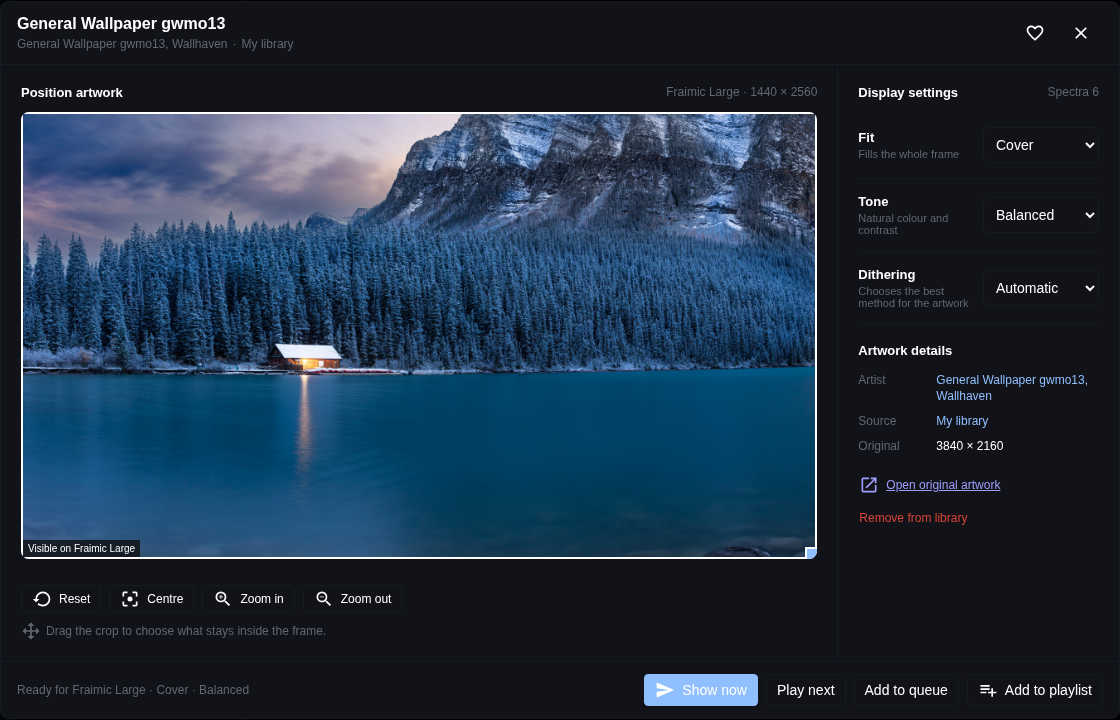
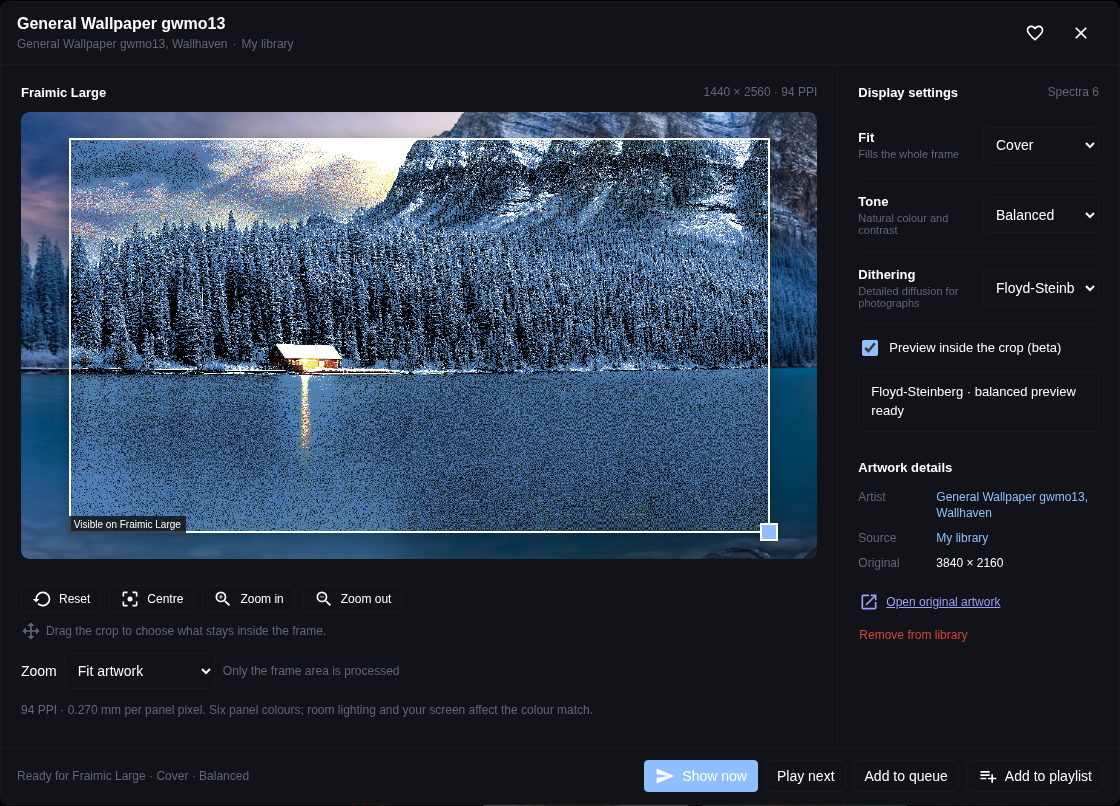
Refresh README and screenshots for Fraimic 2.1

diff --git a/README.md b/README.md
@@ -13,13 +13,17 @@ display and delivers them over your local network or through your Fraimic accoun
 - **Playlists and a queue:** create named playlists, assign them to frames, and
   choose what plays next. Each frame keeps its own playback order.
 - **Picture controls:** position the crop and choose fit, tone, and dithering.
-  Preview the conversion without refreshing the frame.
+  Preview tone and dithering inside the crop without refreshing the frame (beta).
 - **Home Assistant data on the wall:** add weather, clocks, calendars, sensor
   values, and other overlays, or render a full dashboard screen.
 - **Battery-aware delivery:** upload locally while the frame is awake, queue
-  for later, or use cloud delivery so it can sleep between scheduled images.
+  for later, or choose **Hybrid** to use local delivery when awake and cloud
+  delivery for a scheduled wake when asleep.
 - **Native Home Assistant integration:** UI setup, discovery, entities, a media
   player, and actions for automations. No YAML required to get started.
+
+Fraimic **2.1** adds Hybrid delivery, crop previews, and clearer player delivery
+status. See the [release notes](docs/release-2.1.md).
 
 ## Installation
 
@@ -41,10 +45,14 @@ Set the mount rotation in the frame's options for portrait or landscape use.
 For a manual installation, copy `custom_components/fraimic/` into your Home
 Assistant `config/custom_components/` directory and restart.
 
-### Upgrading to 2.0
+### Updating
 
-Back up Home Assistant, update the integration, restart, and reload the browser
-to load the new panel. Existing frame slides migrate into named playlists.
+Back up Home Assistant, update the integration in HACS, restart Home Assistant,
+and reload the browser or companion-app page to load the new panel. Upgrading
+from 2.0 preserves your library, playlists, and delivery settings. Hybrid is
+optional; select it in the frame's integration options.
+
+**Upgrading from 1.x:** existing frame slides migrate into named playlists.
 
 **The old `scene.*` entities and virtual “Fraimic Scenes” device have been
 removed.** Saved Fraimic scenes remain available through `fraimic.send_scene`;
@@ -81,7 +89,8 @@ Heart an image to keep it in **Favorites**.
 Open **Picture details** to adjust the crop, fit, tone, and dithering. Choose
 **Show now**, **Play next**, **Add to queue**, or **Add to playlist**. In cloud
 mode, “Show now” submits the image for a scheduled wake; it cannot wake a sleeping
-frame immediately.
+frame immediately. Hybrid uses the same scheduled delivery when the frame is
+asleep.
 
 The original artwork and crop controls appear immediately. Enable **Preview inside
 the crop (beta)** below Dithering to process only the selected area using the actual
@@ -98,7 +107,11 @@ Large: 94 PPI, per [Fraimic's specifications](https://fraimic.com/)). Calibrate 
 or browser zoom. Room lighting and monitor colours affect the match; frame
 overlays are not included. Fraimic official uses its fixed tone recipe.
 
-![Picture details with crop and display settings](docs/screenshots/picture-details.png)
+**Preview is beta:** the on-screen dithering currently looks noticeably worse
+than the result on the physical frame. Use it as an approximate comparison;
+visual fidelity improvements are tracked in [issue #68](https://github.com/kristofferR/ha-fraimic-eink/issues/68).
+
+![Beta tone and dithering preview inside the crop, with the original artwork visible around it](docs/screenshots/picture-details.png)
 
 ### Playlists and the queue
 
@@ -166,7 +179,12 @@ since an upload timeout can mean the frame is already rendering.
 dashboard shows the submitted image with a **display unconfirmed** label and
 keeps confirmation separate from playback order. New cloud-submitted previews
 are retained across Home Assistant restarts. Allow the scheduled wake interval
-for delivery. Each wake and redraw uses battery, so longer playlist intervals help. See the
+for delivery. The player thumbnail stays visible while sending or waiting for
+cloud delivery.
+
+![Player showing submitted artwork with a display-unconfirmed delivery status](docs/screenshots/player-delivery.png)
+
+Each wake and redraw uses battery, so longer playlist intervals help. See the
 [verified cloud scheduling behaviour](docs/fraimic-cloud-api/albums-scheduling.md).
 
 ### Battery-saving modes
